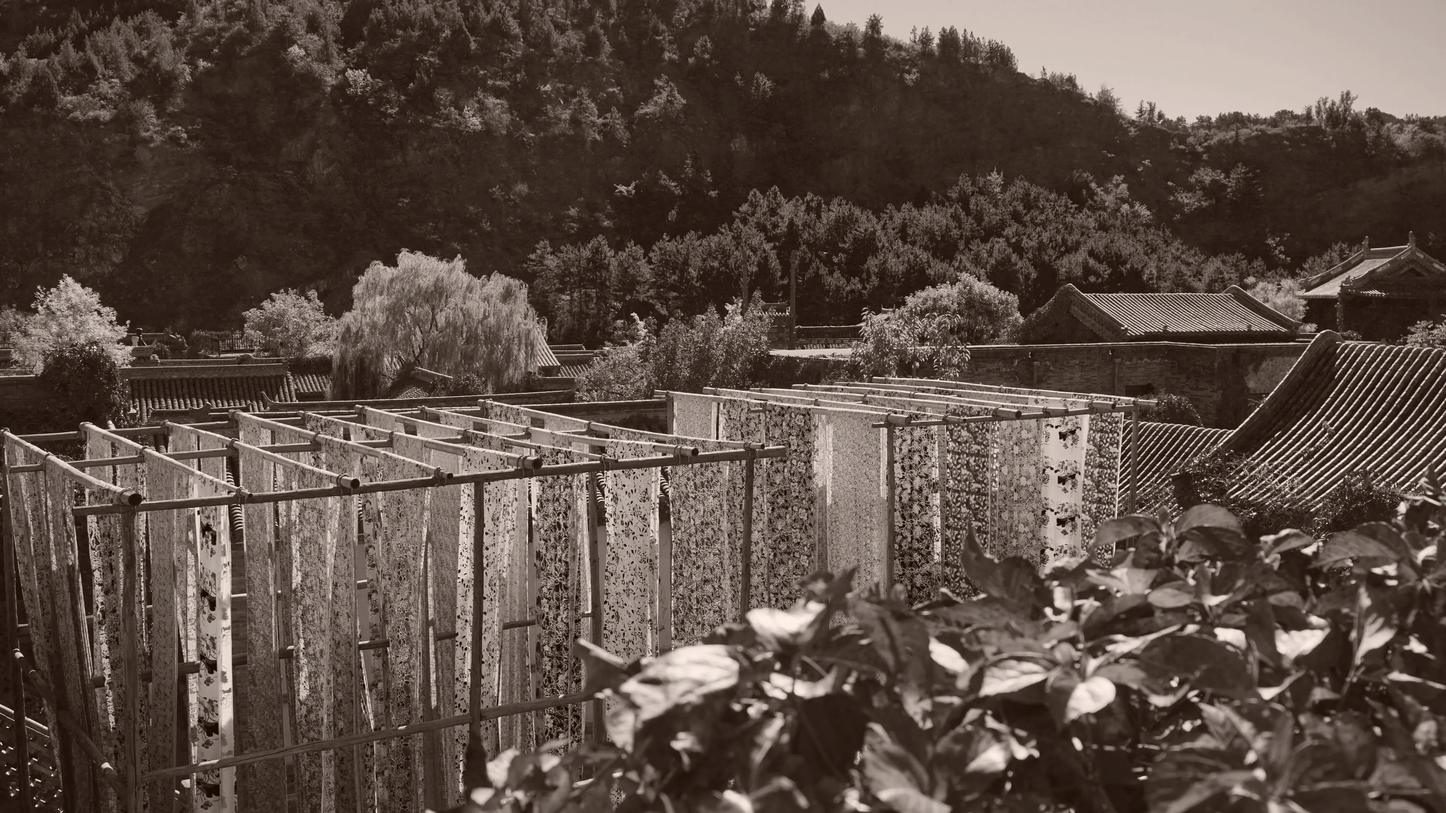
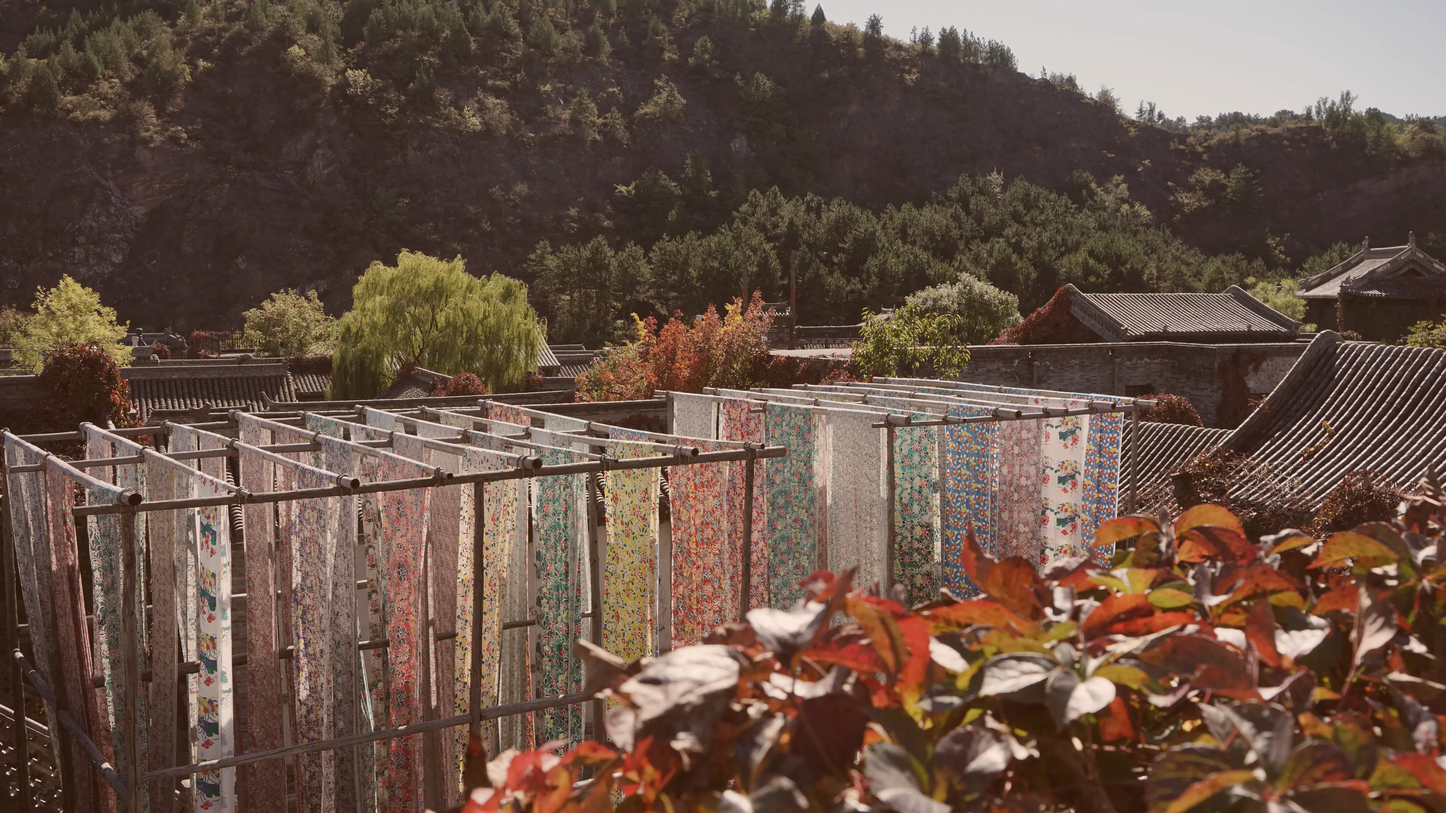
updated season skins

diff --git a/_sass/minima/skins/custom.scss b/_sass/minima/skins/custom.scss
@@ -67,28 +67,28 @@ $sp-table-text-color:      lighten($sp-text-color, 18%) !default;
 $sp-table-zebra-color:     lighten($sp-brand-color, 46%) !default;
 $sp-table-header-bg-color: lighten($sp-brand-color, 43%) !default;
 $sp-table-header-border:   lighten($sp-brand-color, 37%) !default;
-$sp-table-border-color:    $sp-border-color-01 !default;
+$sp-table-border-color:    $sp-brand-color-light !default; //$sp-border-color-01 !default;
 
 // summer theme
 $su-title:                 "  -summer edition- ";
-$su-brand-color:           #00bfff !default;
+$su-brand-color:           #dac700 !default; //#00bfff !default;
 $su-code-background-color: #d3f4ff !default;
 $su-link-base-color:       #00a9df !default;
 $su-background-image: url("/images/background/background-su.webp");
 $su-profile-image: url("/images/profile/profile-su.webp");
 
 $su-brand-color-light: lighten($su-brand-color, 40%) !default;
-$su-brand-color-dark: darken($su-brand-color, 25%) !default;
+$su-brand-color-dark: darken(#00bfff, 25%) !default;
 
 $su-site-title-color: $su-brand-color-dark !default;
 
 $su-text-color: #111111 !default;
-$su-background-color: #fdfdfd !default;
+$su-background-color: lighten($su-link-base-color, 52%) !default;  //#fdfdfd !default;
 
 $su-link-visited-color: darken($su-link-base-color, 15%) !default;
 $su-link-hover-color: $su-text-color !default;
 
-$su-border-color-01: $su-brand-color-light !default;
+$su-border-color-01: lighten($su-code-background-color, 5%) !default; //$su-brand-color-light !default;
 $su-border-color-02: lighten($su-brand-color, 35%) !default;
 $su-border-color-03: $su-brand-color-dark !default;
 
@@ -96,42 +96,42 @@ $su-table-text-color:      lighten($su-text-color, 18%) !default;
 $su-table-zebra-color:     lighten($su-brand-color, 46%) !default;
 $su-table-header-bg-color: lighten($su-brand-color, 43%) !default;
 $su-table-header-border:   lighten($su-brand-color, 37%) !default;
-$su-table-border-color:    $su-border-color-01 !default;
+$su-table-border-color:    $su-brand-color-light !default; //$su-border-color-01 !default;
 
 // autumn theme
 $au-title:                 "  -autumn edition- ";
-$au-brand-color:           #e76016 !default;
-$au-code-background-color: #ffe9dd !default;
+$au-brand-color:           #859c00 !default;
+$au-code-background-color: #fdece3 !default;
 $au-link-base-color:       #e76016 !default;
 $au-background-image: url("/images/background/background-au.webp");
 $au-profile-image: url("/images/profile/profile-au.webp");
 
 $au-brand-color-light: lighten($au-brand-color, 40%) !default;
-$au-brand-color-dark: darken($au-brand-color, 25%) !default;
+$au-brand-color-dark: darken($au-link-base-color, 25%) !default;
 
 $au-site-title-color: $au-brand-color-dark !default;
 
 $au-text-color: #111111 !default;
-$au-background-color: #fdfdfd !default;
+$au-background-color: lighten($au-link-base-color, 47%) !default; //#fdfdfd !default; //this variable is only used for navigation background color when narrow window
 
 $au-link-visited-color: darken($au-link-base-color, 15%) !default;
 $au-link-hover-color: $au-text-color !default;
 
-$au-border-color-01: $au-brand-color-light !default;
+$au-border-color-01: #fdfdfd !default; //lighten($au-code-background-color, 2%) !default; //$sp-brand-color-light !default;
 $au-border-color-02: lighten($au-brand-color, 35%) !default;
 $au-border-color-03: $au-brand-color-dark !default;
 
 $au-table-text-color:      lighten($au-text-color, 18%) !default;
-$au-table-zebra-color:     lighten($au-brand-color, 46%) !default;
-$au-table-header-bg-color: lighten($au-brand-color, 43%) !default;
-$au-table-header-border:   lighten($au-brand-color, 37%) !default;
-$au-table-border-color:    $au-border-color-01 !default;
+$au-table-zebra-color:     lighten($au-link-base-color, 46%) !default;
+$au-table-header-bg-color: lighten($au-link-base-color, 43%) !default;
+$au-table-header-border:   lighten($au-link-base-color, 37%) !default;
+$au-table-border-color:    lighten($au-link-base-color, 40%) !default; //$au-border-color-01 !default;
 
 // winter theme
 $wi-title:                 "  -winter edition- ";
 $wi-brand-color:           #828282 !default;
-$wi-code-background-color: #eeeeff !default;
-$wi-link-base-color:       #2a7ae2 !default;
+$wi-code-background-color: #d6e9ff !default;
+$wi-link-base-color:       #0078ff !default;
 $wi-background-image: url("/images/background/background-wi.webp");
 $wi-profile-image: url("/images/profile/profile-wi.webp");
 

diff --git a/_sass/minima/base.scss b/_sass/minima/base.scss
@@ -182,7 +182,7 @@ a {
  * Blockquotes
  */
 blockquote {
-  color: $brand-color;
+  color: darken($brand-color, 10%);
   border-left: 4px solid $border-color-01;
   padding-left: $spacing-unit * .5;
   @include relative-font-size(1.125);
